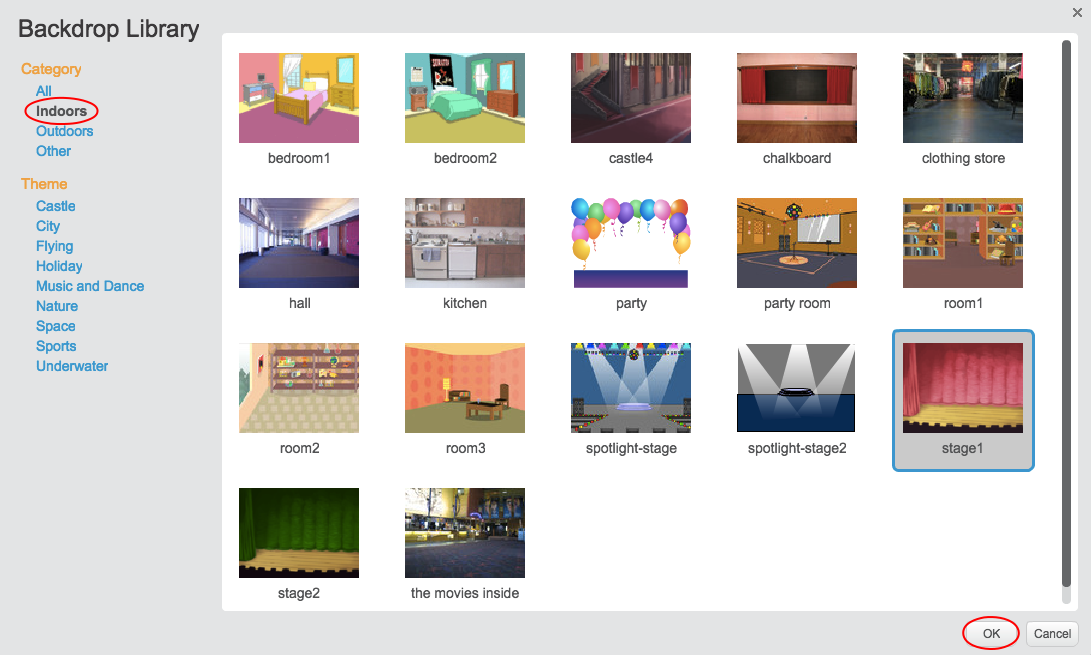
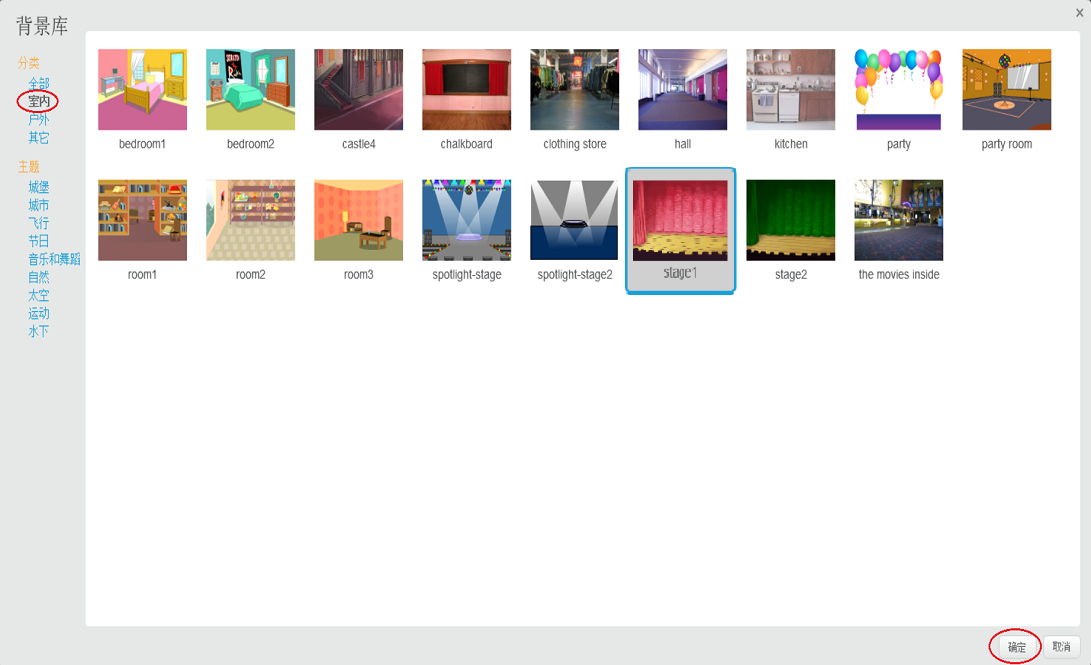
Add translations
da-DK (new)
hu-HU (new)
ja-JP (updated)
zh-CN (updated)

diff --git a/zh-CN/step_1.md b/zh-CN/step_1.md
@@ -1,7 +1,7 @@
-+ 点击__从库中选择背景__。
++ 点击从库中选择背景
+    
+    ![截屏](images/stage-choose.png)
 
-	![screenshot](images/stage-choose.png)
-
-+ 你可以按类别或主题浏览背景。点击一张背景并点击__确认__。
-
-	![screenshot](images/backdrop.png)
++ 你可以通过分类或主题浏览背景。点击背景选中并点击OK
+    
+    ![截屏](images/backdrop.png)

diff --git a/hu-HU/step_1.md b/hu-HU/step_1.md
@@ -1,0 +1,7 @@
++ Kattints a **Háttér kiválasztása a könyvtárból** ikonra.
+    
+    ![képernyőkép](images/stage-choose.png)
+
++ A háttereket kategória vagy téma alapján böngészheted. Kattints a háttérre, majd kattints az **OK** gombra.
+    
+    ![képernyőkép](images/backdrop.png)

diff --git a/ja-JP/step_1.md b/ja-JP/step_1.md
@@ -1,4 +1,4 @@
-+ ライブラリーから背景 (はいけい) を選択 (せんたく) をクリックします。
++ **ライブラリーから背景 (はいけい) を選択 (せんたく)** をクリックします。
     
     ![screenshot](images/stage-choose.png)
 

diff --git a/da-DK/step_1.md b/da-DK/step_1.md
@@ -1,0 +1,7 @@
++ Klik **Vælg baggrund fra biblioteket**.
+    
+    ![skærmbillede](images/stage-choose.png)
+
++ Du kan gennemse baggrunde efter kategori eller tema. Klik på en baggrund og klik på **OK**.
+    
+    ![skærmbillede](images/backdrop.png)
